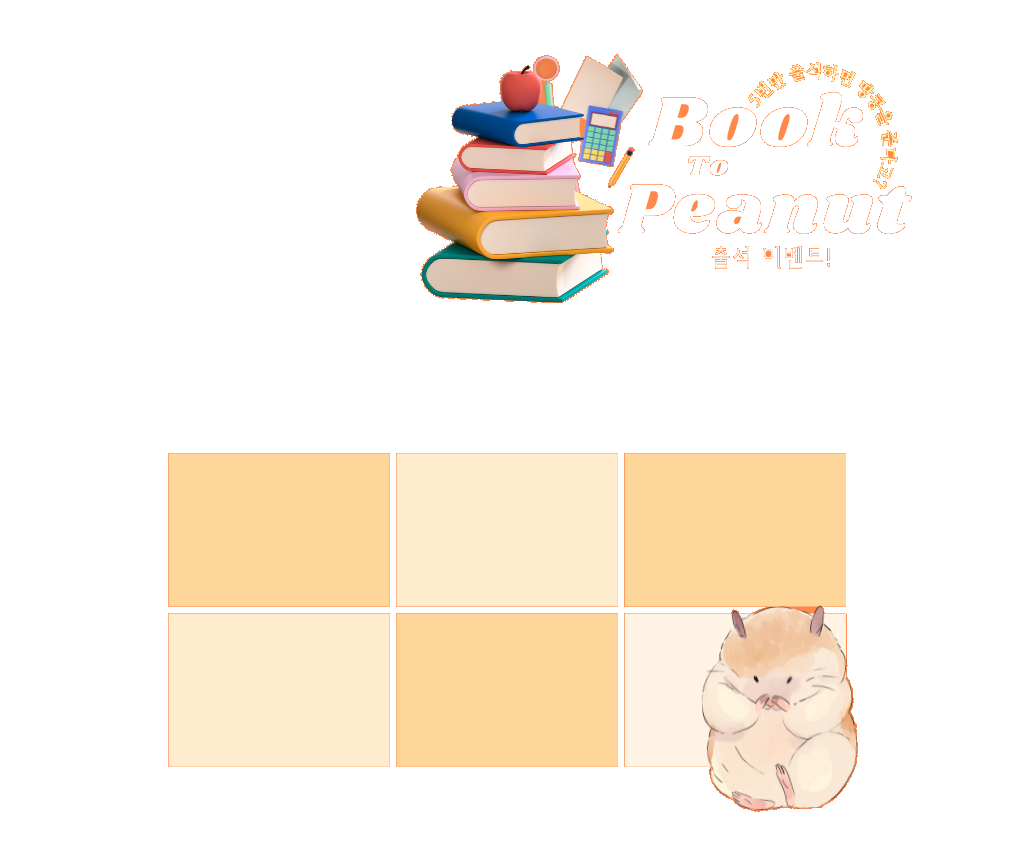
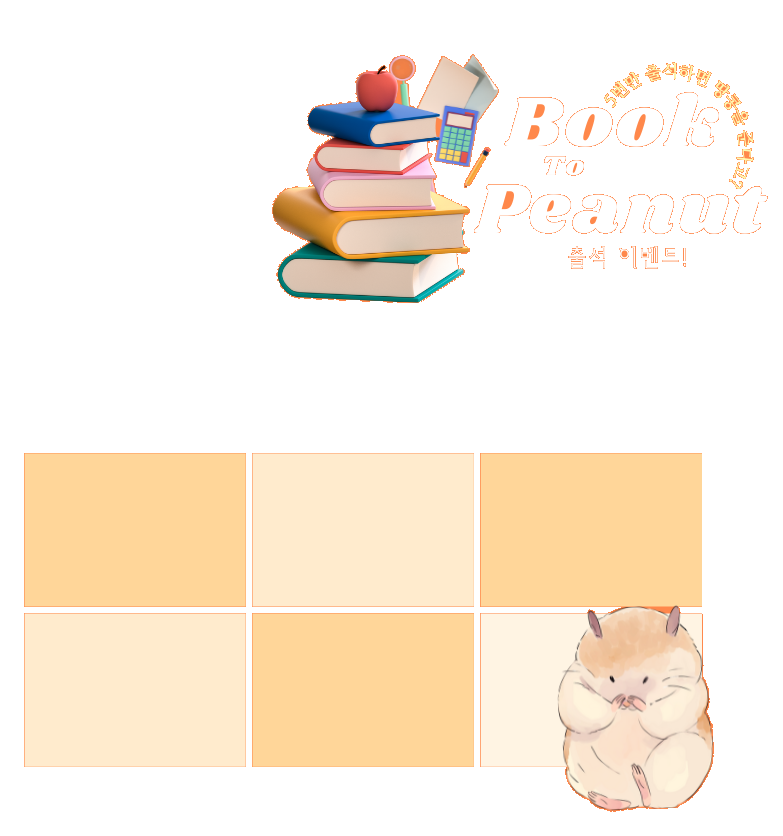
출석이벤트 프론트 완성

Changed region(s): [[0.0307, 0.5287, 0.9195, 0.9952], [0.3372, 0.0622, 0.9808, 0.3732]]

diff --git a/2022_06_dev/final_pilot/resources/css/book/event.css b/2022_06_dev/final_pilot/resources/css/book/event.css
@@ -1,10 +1,13 @@
-main{
+body{
 
     background-image: url('/resources/img/book/eventBack.png');
     background-size: cover;
     background-repeat: no-repeat;
+    background-color: #FF884B;
 
 }
+
+
 #main{
    
     text-align: center;
@@ -16,17 +19,32 @@ main{
 }
 
 
-.peanut>img{
-    width:9rem;
-    position: absolute;
-    top: 50%;
-    left:45%;
+
+#peanutCheck{
+    position:absolute;
+    top:10%;
+    left:30%;
 }
+
+#peanut-area{
+    position: relative;
+    max-width: 100%;
+}
+
+#peanut-area{animation: scaledown 2s forwards ;}
+@keyframes scaledown{
+    0%{transform: scale(0);
+        opacity: 1;}
+    100%{transform: scale(3);
+        opacity: 0;}
+}
+
 
 @media (max-width:500px) 
 {
-    .peanut>img{
-        width:3rem;
-    }
+   #main>img{
+    width:100%
+    
+   }
     
 }

diff --git a/2022_06_dev/final_pilot/book/event.html b/2022_06_dev/final_pilot/book/event.html
@@ -18,10 +18,11 @@
 <body>
     <main>
         <div id="main">
-            <img src="/resources/img/book/eventImg.png">
-            <div class="peanut">
-                <img src="/resources/img/book/icons8-peanut-66.png">
+            <div id="peanut-area">   
+                <img src="/resources/img/book/peanut.png" alt="" id="peanutCheck">
             </div>
+            <img src="/resources/img/book/eventImg.png">
+    
             
         </div>
     </main>
